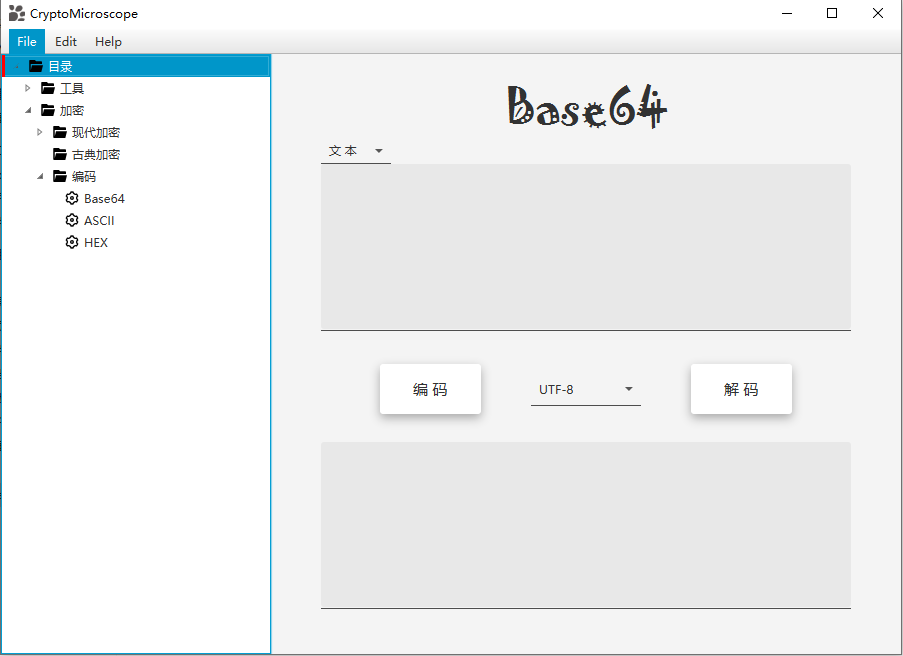
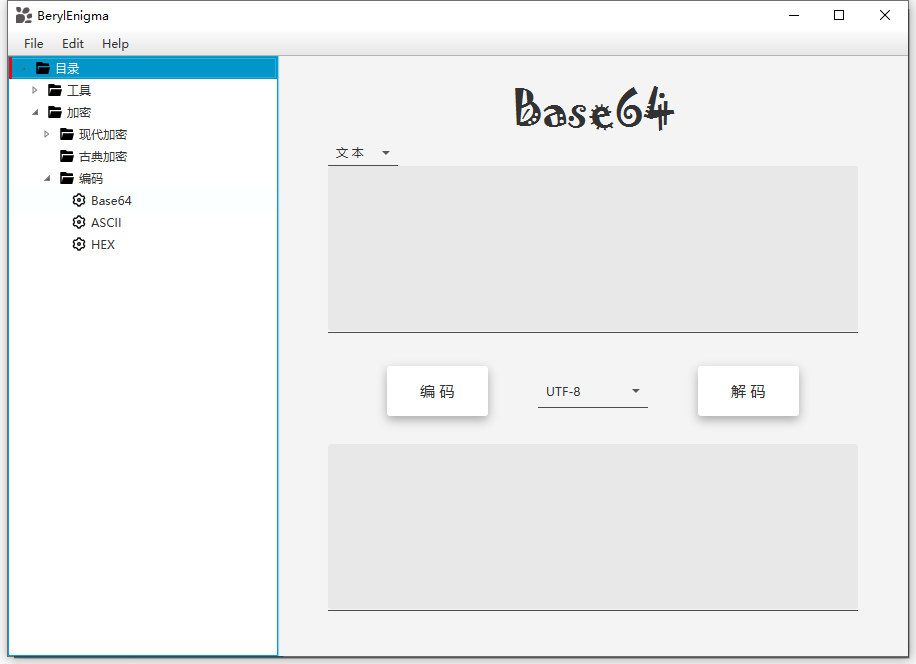
更新图片

diff --git a/src/main/java/Main.java b/src/main/java/Main.java
@@ -17,7 +17,7 @@ public class Main extends Application {
     @Override
     public void start(Stage primaryStage) {
         this.primaryStage = primaryStage;
-        primaryStage.setTitle("CryptoMicroscope");
+        primaryStage.setTitle("BerylEnigma");
         initRootLayout();
     }
 
